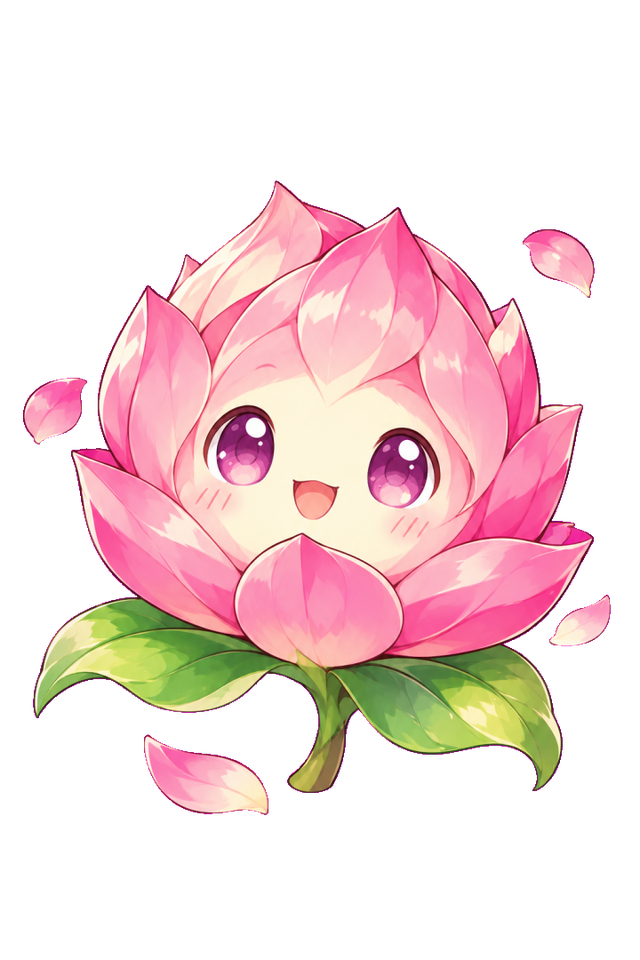
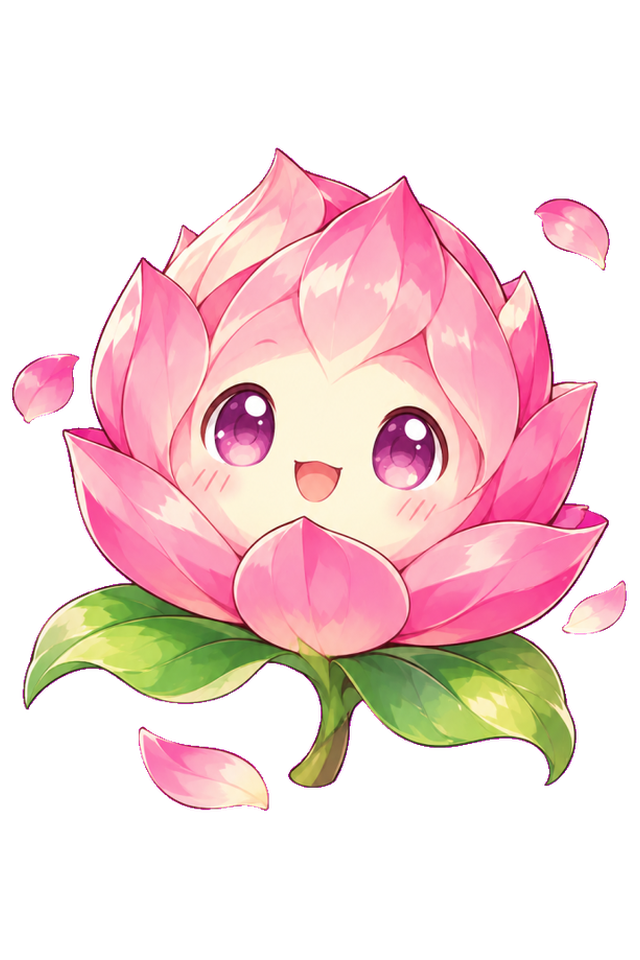
fix(art): 统一初生立绘视觉尺寸，编队/图鉴卡片按主体包围盒补偿缩放

Changed region(s): [[0.0, 0.1562, 1.0, 0.875]]

diff --git a/assets/scripts/ui/widgets.ts b/assets/scripts/ui/widgets.ts
@@ -509,6 +509,50 @@ export function loadSpiritFrame(path: string): Promise<SpriteFrame | null> {
     });
 }
 
+// ─────────────────────────────────────────────────────────────
+// 初生立绘「视觉尺寸」补偿
+//   初生图归一化后画布统一 640×960，但角色本身有宽扁/瘦高之分，
+//   主体高度仍从 0.55H 到 0.95H 不等；小卡片里宽扁角色会显得偏小。
+//   下面按 alpha>16 主体包围盒算一个额外缩放，让主体的显示面积趋近统一。
+//   数据由 tools/normalize_initials.py 生成；未登记（觉醒/真灵/敌人/主角）返回 1。
+// ─────────────────────────────────────────────────────────────
+const SPIRIT_CANVAS_W = 640;
+const SPIRIT_CANVAS_H = 960;
+const INITIAL_BBOX: Record<string, [number, number]> = {
+  cao:    [614, 718],  // 0.75H
+  lu:     [617, 655],  // 0.68H
+  ye:     [588, 915],  // 0.95H
+  hua:    [615, 664],  // 0.69H
+  rong:   [615, 532],  // 0.55H（最宽扁，补偿最大）
+  ying:   [615, 710],  // 0.74H
+  tai:    [615, 627],  // 0.65H
+  luling: [615, 699],  // 0.73H
+  shou:   [617, 813],  // 0.85H
+  lu3:    [561, 913],  // 0.95H
+};
+
+/**
+ * 小卡片立绘的视觉尺寸补偿系数（1.00 ~ 1.25）。
+ * 按外框 contain 后的主体显示面积，向「外框短边² × 0.60」的目标面积靠拢；
+ * 只放大不缩小（进化形态本来就更大），并限制在 1.25 以内避免溢出卡片。
+ */
+export function spiritFitScale(resPath: string, frameW: number, frameH: number): number {
+  const id = resPath.split('/').pop() || '';
+  const box = INITIAL_BBOX[id];
+  if (!box) return 1;
+  const ratio = SPIRIT_CANVAS_W / SPIRIT_CANVAS_H;
+  let pw = frameW;
+  let ph = frameH;
+  if (pw / ph > ratio) pw = ph * ratio;
+  else ph = pw / ratio;
+  const sw = (pw * box[0]) / SPIRIT_CANVAS_W;
+  const sh = (ph * box[1]) / SPIRIT_CANVAS_H;
+  const area = Math.max(sw * sh, 1);
+  const short = Math.min(frameW, frameH);
+  const target = short * short * 0.60;
+  return Math.max(1, Math.min(1.25, Math.sqrt(target / area)));
+}
+
 // 立绘节点：外框恒定 size×size（保证网格/卡片布局整齐），内部 pic 子节点按原图
 // 宽高比 contain 等比缩放（立绘多为 2:3 竖版，若直接缩放外框会导致同排卡片大小不一）。
 // 加载失败时按 UI_DEBUG.emojiFallback 决定是否显示 emoji 兜底。
@@ -518,6 +562,7 @@ export function makeSpirit(
     size: number,
     fallbackEmoji: string,
     frameH?: number, // 可选外框高度：详情页等需要竖向大图时用（外框仍恒定，布局用）
+    fitScale = 1,    // 可选视觉尺寸补偿：小卡片里让宽扁角色与其他角色看起来一样大
 ): Node {
     const n = newNode('spirit', parent);
     const H = frameH && frameH > 0 ? frameH : size;
@@ -542,7 +587,8 @@ export function makeSpirit(
             w = size;       // 外框比图更"瘦"：以宽度为准，高 = 宽 / 比例
             h = size / ratio;
         }
-        setSize(pic, Math.round(w), Math.round(h));
+        // fitScale 只放大图片本身，外框 size×H 不变：网格/卡片布局完全不受影响
+        setSize(pic, Math.round(w * fitScale), Math.round(h * fitScale));
         let sp = pic.getComponent(Sprite);
         if (!sp) sp = pic.addComponent(Sprite);
         // sizeMode 用 CUSTOM(0)：按节点 UITransform 的 contentSize 缩放（web-mobile 构建不导出该枚举）

diff --git a/assets/scripts/ui/pages/Team.ts b/assets/scripts/ui/pages/Team.ts
@@ -10,6 +10,7 @@ import {
   makeButton,
   makePanel,
   makeSpirit,
+  spiritFitScale,
   flowGrid,
   attachClick,
   setLine,
@@ -26,14 +27,14 @@ export function buildTeam(root: Node, gm: GameManager): void {
     fontSize: 40,
     color: COLORS.text,
   });
-  title.setPosition(0, 600, 0);
+  title.setPosition(0, 620, 0);
 
   const hint = makeLabel(root, `点击精灵加入/移出队伍，最多上阵 ${size} 只`, {
     fontSize: 22,
     color: COLORS.sub,
     wrapWidth: 640,
   });
-  hint.setPosition(0, 545, 0);
+  hint.setPosition(0, 570, 0); // 上移，避免被第一排卡片压住
 
   const owned = SPIRITS.filter((x) => (s.collection[x.id] || 0) > 0);
   if (owned.length === 0) {
@@ -57,7 +58,9 @@ export function buildTeam(root: Node, gm: GameManager): void {
     // 纸面卡片（内容载体）；上阵高亮 = 金描边（不做深色异类卡，保持纸面统一）
     const card = makePanel(root, { w: 200, h: 270, surface: 'paper' });
     if (inTeam) setLine(card, COLORS.btnPrimary);
-    const spr = makeSpirit(card, spiritResPath(sp, prog.evo), 150, sp.icon);
+    const resPath = spiritResPath(sp, prog.evo);
+    // 初生形态按主体包围盒补偿视觉尺寸（觉醒/真灵未登记，自动返回 1）
+    const spr = makeSpirit(card, resPath, 150, sp.icon, undefined, spiritFitScale(resPath, 150, 150));
     spr.setPosition(0, 55, 0);
     // 纸面文字用深色系：稀有度色压暗保证对比（README §4 色板锚点）
     makeLabel(card, sp.name, { fontSize: 24, color: shadeHex(RARITY_COLOR[sp.rarity], -0.35) }).setPosition(0, -55, 0);
@@ -76,9 +79,14 @@ export function buildTeam(root: Node, gm: GameManager): void {
     attachClick(card, () => toggleTeam(gm, sp.id));
     return card;
   });
-  flowGrid(root, cards, 410, 3, 200, 270, 22);
+  // 4 排（集齐 10 只）时收紧行距，返回按钮随末排自适应，避免压住卡片
+  const rows = Math.ceil(cards.length / 3);
+  const gap = rows >= 4 ? 8 : 22;
+  flowGrid(root, cards, 410, 3, 200, 270, gap);
+  const lastBottom = 410 - (rows - 1) * (270 + gap) - 270 / 2;
+  const backY = Math.min(-560, lastBottom - 52);
 
-  makeButton(root, '返回战斗', () => gm.go('battle'), { w: 300, h: 70 }).setPosition(0, -560, 0);
+  makeButton(root, '返回战斗', () => gm.go('battle'), { w: 300, h: 70 }).setPosition(0, backY, 0);
 }
 
 function toggleTeam(gm: GameManager, id: string): void {

diff --git a/assets/scripts/ui/pages/Dex.ts b/assets/scripts/ui/pages/Dex.ts
@@ -7,7 +7,7 @@ import type { GameManager } from '../GameManager';
 import { SPIRITS, spiritStats, spiritResPath } from '../../logic/Spirits';
 import { RARITY_COLOR, EVOLUTION } from '../../logic/GameConfig';
 import { ENEMIES, enemyResPath, TIER_NAMES } from '../../logic/Enemies';
-import { makeLabel, makeButton, makePanel, makeSpirit, flowGrid, attachClick, shadeHex, COLORS } from '../widgets';
+import { makeLabel, makeButton, makePanel, makeSpirit, spiritFitScale, flowGrid, attachClick, shadeHex, COLORS } from '../widgets';
 
 export type DexTab = 'spirit' | 'enemy';
 
@@ -59,7 +59,8 @@ function buildSpiritCards(root: Node, gm: GameManager): number {
       ? { w: CELL_W, h: CELL_H, surface: 'paper' }
       : { w: CELL_W, h: CELL_H, bg: COLORS.panelDeep });
     const prog = s.prog[sp.id] || { star: 1, evo: 0 };
-    makeSpirit(card, spiritResPath(sp, prog.evo), 135, owned ? sp.icon : '❔').setPosition(0, 50, 0);
+    const resPath = spiritResPath(sp, prog.evo);
+    makeSpirit(card, resPath, 135, owned ? sp.icon : '❔', undefined, spiritFitScale(resPath, 135, 135)).setPosition(0, 50, 0);
     makeLabel(card, owned ? sp.name : '？？？', { fontSize: 21, color: owned ? shadeHex(RARITY_COLOR[sp.rarity], -0.35) : '#8C8270' }).setPosition(0, -50, 0);
     if (owned) {
       makeLabel(card, `${EVOLUTION.stages[prog.evo]} ★${prog.star}`, { fontSize: 16, color: COLORS.ink }).setPosition(0, -78, 0);

diff --git a/assets/scripts/logic/GameConfig.ts b/assets/scripts/logic/GameConfig.ts
@@ -107,7 +107,7 @@ export const RARITY_LABEL: { N: string; R: string; SR: string; SSR: string } = {
 };
 
 // 当前精灵立绘缓存版本：改图后 +1，强制资源重新加载（Cocos 用 resources 动态加载，靠查询参数破缓存）
-export const SPIRIT_VERSION = 28; // 28: 萤火灵 三阶段立绘更换（青幕抠像）
+export const SPIRIT_VERSION = 29; // 29: 初生立绘统一 640×960 画布 + 小卡片视觉尺寸补偿
 
 // 全局养成加成重算：idleMult = 等级收益(1 + (level-1)*0.1) + 进化总阶数 * 每阶加成
 export function recalcIdleMult(state: {

diff --git a/tools/normalize_initials.py b/tools/normalize_initials.py
@@ -1,0 +1,102 @@
+# -*- coding: utf-8 -*-
+"""初生立绘视觉尺寸归一化。
+
+背景：觉醒/真灵立绘由 key_bg.py 抠像后统一输出 640x960，主体几乎铺满画布
+（bbox 约占 0.95W x 0.97H）；而初生立绘是用户直接提供的原图，主体占比从
+0.49H 到 0.97H 不等，卡片里看起来「有的大有的小」。
+
+做法（与 key_bg.py 的成图规格完全一致）：
+  1. 按 alpha>16 求主体包围盒，裁掉透明边（留 1% 羽化余量）；
+  2. 等比放大到统一 640x960 画布的 0.98W x 0.97H 内框（取 min 比例，不拉伸）；
+  3. 居中贴回透明画布。
+
+跑完后所有初生图与觉醒/真灵同规格、同填充规则，任意页面 contain 适配时
+缩放系数一致。归一化后的主体 bbox 会打印出来，用于 widgets.ts 的
+INITIAL_BBOX（小卡片里的视觉面积补偿）。
+
+用法: python tools/normalize_initials.py [--dry]
+原图自动备份到 pending_art/initials_orig_20261105/（该目录已 gitignore）。
+"""
+import os
+import shutil
+import sys
+import glob
+from PIL import Image
+
+ROOT = os.path.dirname(os.path.dirname(os.path.abspath(__file__)))
+SRC_DIR = os.path.join(ROOT, 'assets', 'resources', 'spirits')
+BACKUP = os.path.join(ROOT, 'pending_art', 'initials_orig_20261105')
+PREVIEW = os.path.join(ROOT, 'pending_art', 'initials_norm_preview.jpg')
+
+# 10 只精怪的初生图（不含 protagonist / 觉醒 / 真灵）
+IDS = ['cao', 'lu', 'ye', 'hua', 'rong', 'ying', 'tai', 'luling', 'shou', 'lu3']
+
+W, H = 640, 960
+INNER_W, INNER_H = round(W * 0.98), round(H * 0.97)  # 627 x 931
+ALPHA_TH = 16
+
+
+def bbox_of(im):
+    a = im.getchannel('A').point(lambda p: 255 if p > ALPHA_TH else 0)
+    return a.getbbox()
+
+
+def normalize(path, dry=False):
+    im = Image.open(path).convert('RGBA')
+    bb = bbox_of(im)
+    if not bb:
+        print(f'  !! {os.path.basename(path)} 全透明，跳过')
+        return None
+    # 1% 羽化余量，避免切掉边缘半透明像素
+    pad_x, pad_y = max(2, round((bb[2] - bb[0]) * 0.01)), max(2, round((bb[3] - bb[1]) * 0.01))
+    box = (max(0, bb[0] - pad_x), max(0, bb[1] - pad_y),
+           min(im.width, bb[2] + pad_x), min(im.height, bb[3] + pad_y))
+    crop = im.crop(box)
+    cw, ch = crop.size
+    k = min(INNER_W / cw, INNER_H / ch)
+    nw, nh = max(1, round(cw * k)), max(1, round(ch * k))
+    body = crop.resize((nw, nh), Image.LANCZOS)
+    canvas = Image.new('RGBA', (W, H), (0, 0, 0, 0))
+    canvas.alpha_composite(body, ((W - nw) // 2, (H - nh) // 2))
+    out = bbox_of(canvas)
+    ow, oh = out[2] - out[0], out[3] - out[1]
+    print(f'  {os.path.basename(path):14s} {im.width}x{im.height} bbox={cw}x{ch} '
+          f'-> {nw}x{nh}  fracW={ow / W:.2f} fracH={oh / H:.2f}  BBOX=[{ow}, {oh}]')
+    if not dry:
+        canvas.save(path, optimize=True)
+    return canvas
+
+
+def main():
+    dry = '--dry' in sys.argv
+    os.makedirs(BACKUP, exist_ok=True)
+    sheets = []
+    for sid in IDS:
+        p = os.path.join(SRC_DIR, sid + '.png')
+        if not os.path.exists(p):
+            print(f'  !! 缺少 {p}')
+            continue
+        dst = os.path.join(BACKUP, sid + '.png')
+        if not os.path.exists(dst):
+            shutil.copy2(p, dst)
+        img = normalize(p, dry)
+        if img:
+            sheets.append((sid, img))
+    # 对比拼图（浅灰底，模拟宣纸卡片）
+    if sheets:
+        cell_w, cell_h = 200, 300
+        sheet = Image.new('RGB', (cell_w * 5, cell_h * 2), (233, 226, 208))
+        for i, (sid, img) in enumerate(sheets):
+            thumb = img.copy()
+            thumb.thumbnail((cell_w - 20, cell_h - 20), Image.LANCZOS)
+            x = (i % 5) * cell_w + (cell_w - thumb.width) // 2
+            y = (i // 5) * cell_h + (cell_h - thumb.height) // 2
+            sheet.paste(thumb, (x, y), thumb)
+        sheet.save(PREVIEW, quality=88)
+        print(f'\n预览拼图: {PREVIEW}')
+    if dry:
+        print('\n[dry-run] 未写入任何文件')
+
+
+if __name__ == '__main__':
+    main()
